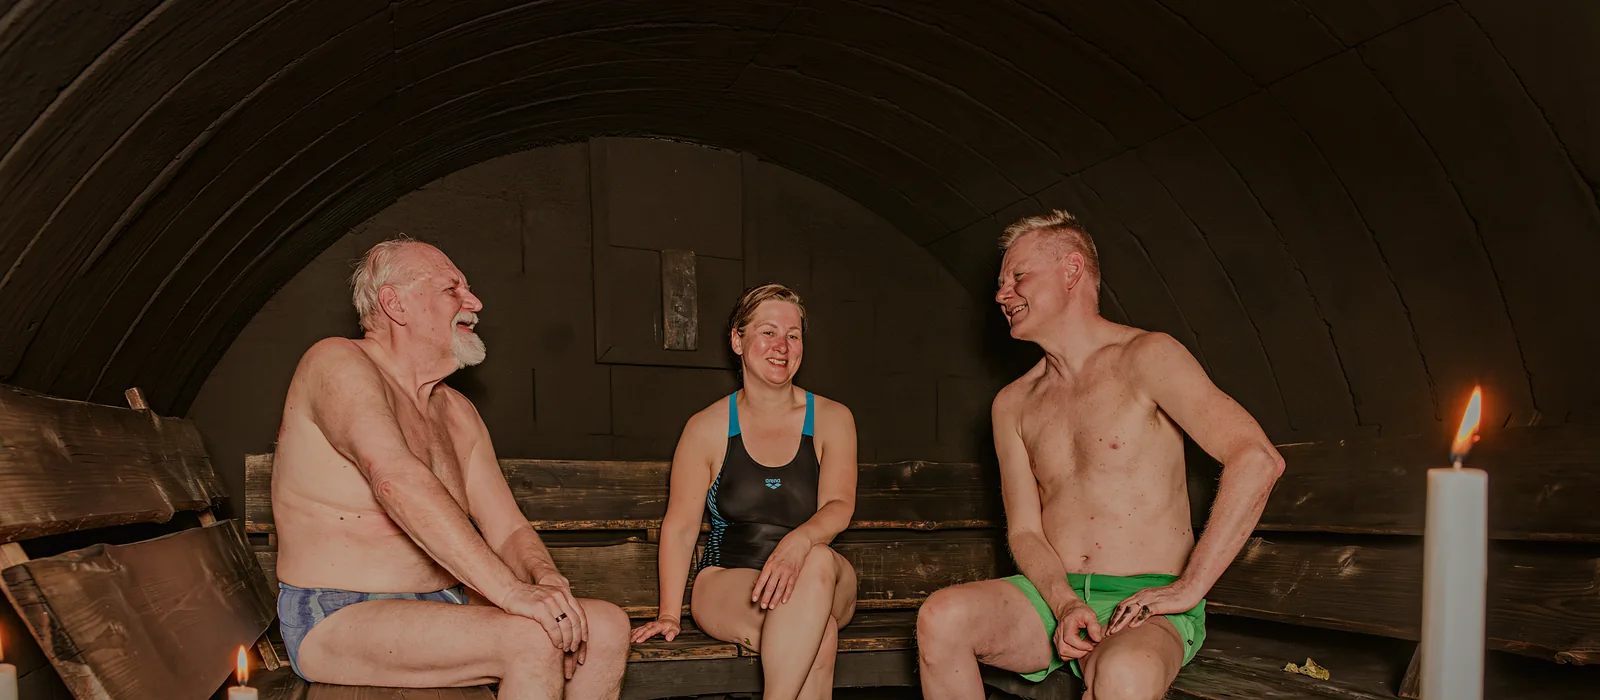
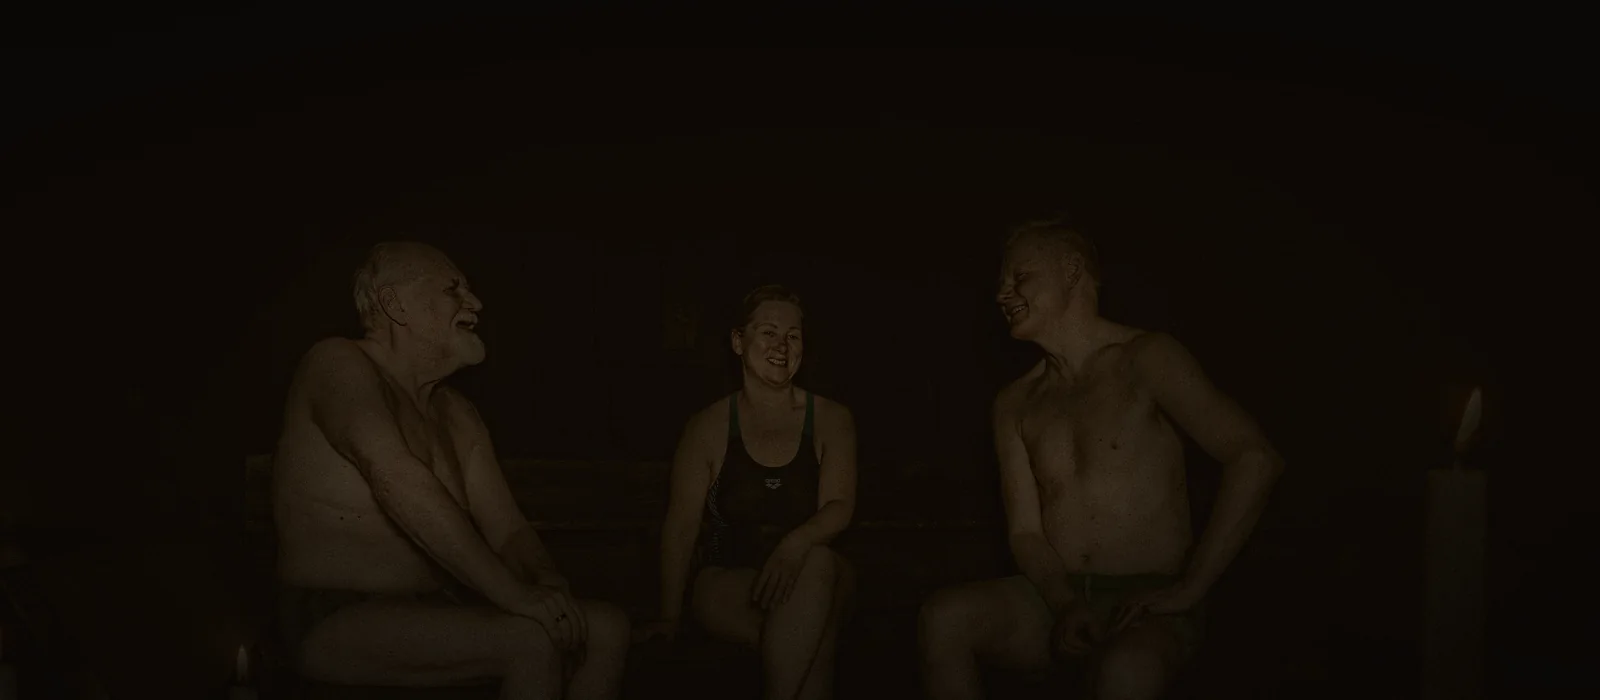
Luonnos: mustan viikon mainoskuva v4-extra testiympäristössä
Joonaksen valitsema tummempi extra-versio korvaa v3:n. Asettelu ennallaan
(otsikko, tarjoukset ja nappi kuvan alla). Paneelin tausta #120D0A, jotta
sävy sopii kuvan nokiseen reunaan. Alt-tekstit ennallaan. Vain testiympäristö.

diff --git a/src/styles.css b/src/styles.css
@@ -594,7 +594,7 @@ html,body{max-width:100%;overflow-x:hidden}
 img,video,iframe,embed,object,table{max-width:100%}
 
 /* Savusaunan musta viikko: yläbanneri ja etusivun mainoskortti. Näkyvät vasta luokalla html.mv-on (lippu tai ?preview=musta-viikko).
-   Mustat pinnat (ei tummanvihreää); vaalea teksti, kulta-aksentti. Mainoskuva v3 (koko savusaunahuone). Otsikko, hinnat ja nappi kuvan alla (tummalla paneelilla), jotta kasvot eivät peity ja otsikko ei jää sticky-yläpalkin alle. */
+   Mustat pinnat (ei tummanvihreää); vaalea teksti, kulta-aksentti. Mainoskuva v4-extra (koko savusaunahuone, tummempi). Otsikko, hinnat ja nappi kuvan alla tummalla paneelilla (#120D0A, sopii kuvan reunan nokeen). */
 .mv-banner{background:#161311;color:var(--bg)}
 .mv-banner-in{display:flex;align-items:center;gap:8px;padding:6px 0}
 .mv-banner-link{flex:1;min-width:0;display:flex;flex-wrap:wrap;align-items:baseline;gap:2px 14px;color:inherit;text-decoration:none}
@@ -606,8 +606,8 @@ img,video,iframe,embed,object,table{max-width:100%}
 .mv-banner-close{flex:none;width:44px;height:44px;margin-right:-8px;border:0;border-radius:8px;background:transparent;color:inherit;font:400 26px/1 var(--body);cursor:pointer}
 .mv-banner-close:hover{color:var(--accent)}
 .mv-sec{padding:28px 0}
-.mv-ad{position:relative;overflow:hidden;color:#F5F3EF;background:#1B1511;border:1px solid rgba(196,154,108,.4)}
-.mv-ad-visual{position:relative;aspect-ratio:1600/700;background:#1B1511}
+.mv-ad{position:relative;overflow:hidden;color:#F5F3EF;background:#120D0A;border:1px solid rgba(196,154,108,.4)}
+.mv-ad-visual{position:relative;aspect-ratio:1600/700;background:#120D0A}
 .mv-ad-media,.mv-ad-media picture,.mv-ad-media img{position:absolute;inset:0;width:100%;height:100%;display:block}
 .mv-ad-media img{object-fit:cover;object-position:center}
 .mv-ad-title{margin:0 0 20px;font:500 clamp(32px,4.2vw,52px)/1.08 var(--head);color:#F5F3EF}
@@ -640,7 +640,7 @@ img,video,iframe,embed,object,table{max-width:100%}
 .mvp{background:#1B1511;color:#F5F3EF;padding:0 0 80px}
 .mvp .kicker{margin:0 0 10px;color:#D2B478;letter-spacing:.2em;text-transform:uppercase;font:500 13px/1.3 var(--label)}
 .mvp h1,.mvp h2{color:#F5F3EF}
-.mvp-hero{position:relative;overflow:hidden;background:#1B1511;aspect-ratio:1600/700;margin:0 0 48px;text-align:left}
+.mvp-hero{position:relative;overflow:hidden;background:#120D0A;aspect-ratio:1600/700;margin:0 0 48px;text-align:left}
 .mvp-hero-media,.mvp-hero-media picture,.mvp-hero-media img{position:absolute;inset:0;width:100%;height:100%;display:block}
 .mvp-hero-media img{object-fit:cover;object-position:center}
 .mvp-hero-in{position:absolute;z-index:1;left:4%;top:8%;width:40%;max-width:32rem}
